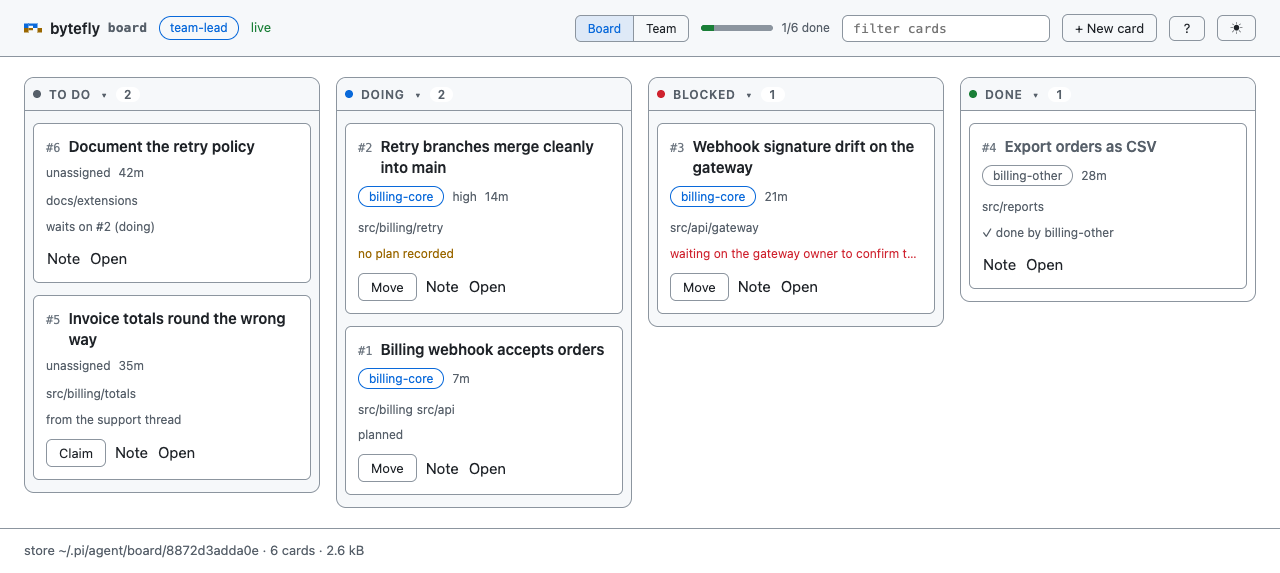
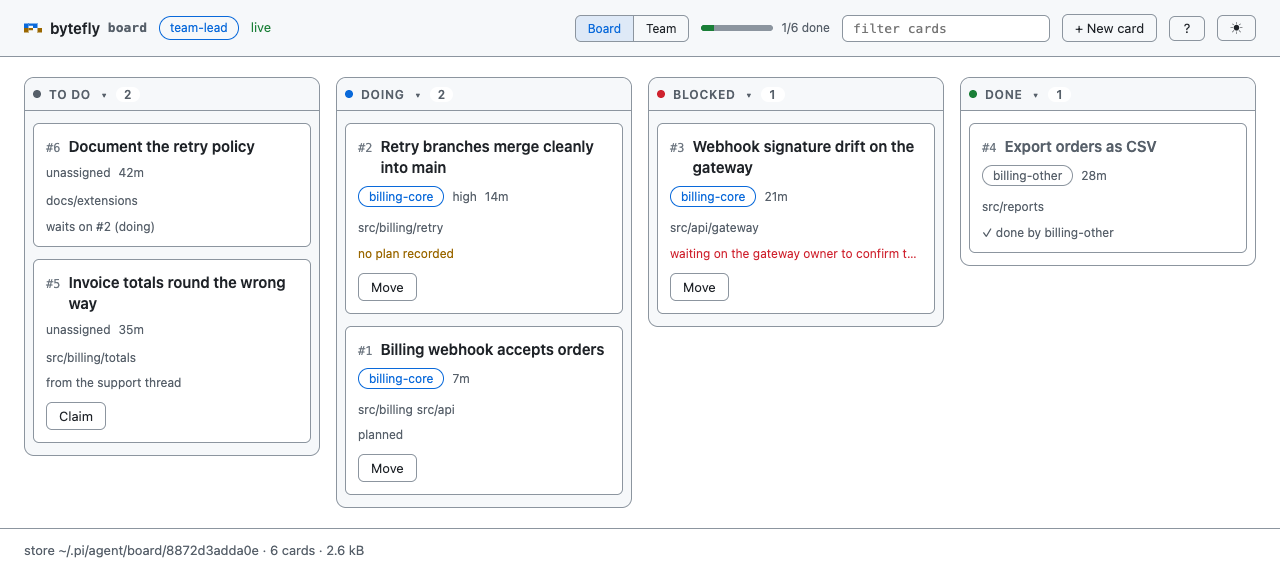
feat(board): the page reads at the size a board reaches
`done` folds itself once past six cards and only while the reader has not
said otherwise; a lane showing nothing — empty or folded — narrows to a rail
of dot, word and count, so the lanes carrying work keep the width; and a card
face offers one verb, because its title already opens the dialog that holds
the note field and the move controls. On a 26-card board that is 26 buttons
instead of 59 and a Done lane that no longer owns four times the height of
the live ones.

diff --git a/extensions/board/view/render.ts b/extensions/board/view/render.ts
@@ -26,6 +26,14 @@ export const BOARD_RENDER_JS = String.raw`(function () {
   var LANE_EMPTY = { todo: "nothing waiting", doing: "nothing in flight", blocked: "nothing blocked", done: "nothing finished yet" };
   /** Path chips a lane card shows before it counts the rest. */
   var PATH_CHIPS = 3;
+  /**
+   * Finished cards a lane may hold before it starts folded.
+   *
+   * A board of 26 cards is 19 of them finished, and an open Done lane is four times the
+   * height of the three that carry work. Three or four is work a reader still checks;
+   * past this it is history, and the count in the head says how much.
+   */
+  var DONE_FOLD_AT = 6;
 
   /** One element with optional class and text. */
   function el(tag, className, text) {
@@ -251,10 +259,11 @@ export const BOARD_RENDER_JS = String.raw`(function () {
       // in it is not worth opening.
       actions.appendChild(actionButton("Move", function () { board.openCard(card.id, "move"); }, "plain"));
     }
-    // A note is a write, and a viewer's dialog has no field for one.
-    if (canWrite()) actions.appendChild(actionButton("Note", function () { board.openCard(card.id, "note"); }));
-    actions.appendChild(actionButton("Open", function () { board.openCard(card.id); }));
-    item.appendChild(actions);
+    // One verb, or none. The title above is the way into a card, and the dialog it opens
+    // already holds the note field and the move controls, so a face that repeated them
+    // put three doors to one room in every card — 59 buttons on a 26-card board. A card
+    // with no verb draws no row: an empty one would still take its gap.
+    if (actions.childNodes.length > 0) item.appendChild(actions);
     return item;
   }
 
@@ -360,6 +369,17 @@ export const BOARD_RENDER_JS = String.raw`(function () {
       var lane = view.lanes[i];
       var section = laneNode(lane);
       if (section.parentNode !== lanes) lanes.appendChild(section);
+      // Finished work starts folded, once: the default is what the page opens with, and
+      // toggleLane writes a boolean from then on, so a reader who unfolds Done keeps it
+      // unfolded through every frame a peer's write causes.
+      if (lane.status === "done" && lane.cards.length >= DONE_FOLD_AT) {
+        board.collapsed = board.collapsed || {};
+        if (board.collapsed[lane.status] === undefined) board.collapsed[lane.status] = true;
+      }
+      // A lane holding nothing is a rail: its dot, its word, and its count, in the width
+      // the fact deserves. The filter never does this — filtering is a view of the cards,
+      // not a statement that the lane has none.
+      section.setAttribute("data-empty", lane.cards.length === 0 ? "true" : "false");
       var shown = lane.cards.filter(function (card) { return matches(card, query); });
       var sig = lane.cards.map(function (card) { return card.id + ":" + card.rev; }).join(",") + "|" + query;
       if (section.getAttribute("data-sig") !== sig) {
@@ -382,6 +402,10 @@ export const BOARD_RENDER_JS = String.raw`(function () {
       var collapsed = board.collapsed && board.collapsed[lane.status] === true;
       var list = section.querySelector(".board-lane__list");
       if (list) list.hidden = collapsed;
+      // A folded lane shows nothing, so it takes the rail's width the way an empty one
+      // does: the count in its head is the whole fact, and the lanes with cards keep the
+      // width that would otherwise be a tray of nothing.
+      section.setAttribute("data-folded", collapsed ? "true" : "false");
       var toggle = section.querySelector(".board-lane__toggle");
       if (toggle) toggle.setAttribute("aria-expanded", String(!collapsed));
     }

diff --git a/extensions/board/view/styles.ts b/extensions/board/view/styles.ts
@@ -56,9 +56,15 @@ ${WEB_COMPONENTS_CSS}
 .board-banner{margin:0 0 var(--space-4)}
 .board-no-cards{max-width:32rem;margin:auto;padding:var(--space-8) var(--space-6)}
 
-/* Lanes: four trays of cards, each with a head that sticks while the pane scrolls. */
-.board-lanes{display:grid;grid-template-columns:repeat(4,minmax(0,1fr));gap:var(--space-4);align-items:start}
-.board-lane{display:flex;flex-direction:column;gap:var(--space-2);min-width:0;padding:0 var(--space-2) var(--space-3);border:1px solid var(--border);border-radius:var(--radius-lg);background:var(--surface)}
+/* Lanes: trays of cards, each with a head that sticks while the pane scrolls. A lane is
+   sized by the work it holds rather than by its share of the row, so one holding nothing
+   narrows to a rail and hands the width to the lanes carrying cards. */
+.board-lanes{display:flex;flex-wrap:nowrap;gap:var(--space-4);align-items:start}
+.board-lane{display:flex;flex:1 1 0;flex-direction:column;gap:var(--space-2);min-width:0;padding:0 var(--space-2) var(--space-3);border:1px solid var(--border);border-radius:var(--radius-lg);background:var(--surface)}
+/* The rail: a dot, a word, and a count — the fact that the lane is showing nothing, not a
+   tray. A lane is a rail when it holds no cards and when it is folded, because both say
+   the same thing: there is nothing here to read. */
+.board-lane[data-empty="true"],.board-lane[data-folded="true"]{flex:0 0 8.5rem}
 .board-lane__head{position:sticky;top:0;z-index:1;display:flex;align-items:center;gap:var(--space-2);margin:0 calc(-1 * var(--space-2)) var(--space-1);padding:var(--space-2) var(--space-2);background:var(--surface);border-bottom:1px solid var(--border);border-radius:var(--radius-lg) var(--radius-lg) 0 0;font:var(--fw-semibold) var(--fs-xs) var(--font-ui);letter-spacing:.06em;text-transform:uppercase;color:var(--muted)}
 .board-lane__toggle{appearance:none;display:flex;align-items:center;gap:var(--space-2);border:0;background:none;padding:0;font:inherit;letter-spacing:inherit;text-transform:inherit;color:inherit;cursor:pointer}
 .board-lane__toggle:hover{color:var(--accent)}
@@ -180,13 +186,17 @@ ${WEB_COMPONENTS_CSS}
 .board-skeleton{height:4.5rem;border:1px dashed var(--border);border-radius:var(--radius-md);background:var(--surface)}
 
 @media (max-width:1180px){
-  .board-lanes{grid-template-columns:repeat(2,minmax(0,1fr))}
+  .board-lanes{flex-wrap:wrap}
+  .board-lane{flex:1 1 calc(50% - var(--space-4))}
   .board-progress{display:none}
   /* Two panels need a wide window; below this the queue comes first, the roster after. */
   .board-team__grid{grid-template-columns:minmax(0,1fr)}
 }
 @media (max-width:860px){
-  .board-lanes{grid-template-columns:minmax(0,1fr)}
+  .board-lanes{flex-direction:column;align-items:stretch}
+  .board-lane{flex:1 1 auto}
+  /* One lane at a time, so a rail buys nothing: the shown lane takes the column. */
+  .board-lane[data-empty="true"],.board-lane[data-folded="true"]{flex:1 1 auto}
   .board-lane[hidden]{display:none}
   .board-picker{display:flex}
   .board-toolbar{gap:var(--space-2)}

diff --git a/extensions/board/view/pages.test.ts b/extensions/board/view/pages.test.ts
@@ -235,6 +235,34 @@ describe("the client bundle", () => {
 		expect(BOARD_CLIENT_JS).not.toContain("dependsOn:");
 	});
 
+	test("keeps one verb on a card face, and lets the title be the way in", () => {
+		// Claim, then Note, then Open: three doors to one room, and 59 buttons on the
+		// 26-card board this page is built for. The title opens the same dialog, which
+		// holds the note field and the move controls.
+		expect(BOARD_CLIENT_JS).toContain('actionButton("Claim"');
+		expect(BOARD_CLIENT_JS).toContain('actionButton("Move"');
+		expect(BOARD_CLIENT_JS).not.toContain('actionButton("Note"');
+		expect(BOARD_CLIENT_JS).not.toContain('actionButton("Open"');
+		// A finished card and a viewer's card have no verb at all, and an empty row would
+		// still take its gap, so the row is drawn only when something is in it.
+		expect(BOARD_CLIENT_JS).toContain("actions.childNodes.length > 0");
+	});
+
+	test("folds finished work once, and gives an empty lane a rail", () => {
+		// Nineteen done cards is history the three live lanes should not have to sit
+		// beside unfolded; the count in the head is the fact. The default is written only
+		// while unset, so a reader's toggle decides from the first click on.
+		expect(BOARD_CLIENT_JS).toContain('lane.status === "done"');
+		expect(BOARD_CLIENT_JS).toContain("DONE_FOLD_AT");
+		expect(BOARD_CLIENT_JS).toContain("board.collapsed[lane.status] === undefined");
+		// The rail is about what the lane is showing, never about the filter: filtering is a
+		// view of the cards, not a statement that the lane holds none. A folded lane shows
+		// nothing either, so it takes the same width and hands the rest to the lanes a
+		// reader is reading.
+		expect(BOARD_CLIENT_JS).toContain('setAttribute("data-empty", lane.cards.length === 0');
+		expect(BOARD_CLIENT_JS).toContain('section.setAttribute("data-folded"');
+	});
+
 	test("says why in one voice, and lets the reason carry it", () => {
 		// Three grammars in one slot read as three different kinds of fact: a status
 		// prefix that repeated the lane, an em-dash clause, and a tick.

diff --git a/assets/cards/board.html b/assets/cards/board.html
@@ -63,12 +63,10 @@
 							<div class="mini__reason">no plan recorded</div>
 							<div class="mini__actions">
 								<span class="act act--loud">Claim</span>
-								<span class="act">Note</span>
-								<span class="act">Open</span>
 							</div>
 						</div>
 						<span class="note">one reason line, in one voice</span>
-						<span class="note">nobody holds it, so Claim is the invitation</span>
+						<span class="note">one action: Claim, and the title opens the rest</span>
 					</div>
 					<div class="panel__gloss">功能，不是步骤</div>
 				</section>

diff --git a/docs/extensions/board.md b/docs/extensions/board.md
@@ -11,7 +11,7 @@ The steps of the work are deliberately *not* on the board. They live in the
 owner's plan and in `todo`; the board answers who is doing what, and what needs a
 decision.
 
-<img src="../../assets/screens/board.png" alt="The board page: a toolbar with the seat the page writes as, a live badge, Board and Team tabs, done-of-total progress, a filter and a New card button; four lane trays, each with a dot, a count and a fold control; and cards carrying an owner chip, path hints, a reason line and their actions" width="100%">
+<img src="../../assets/screens/board.png" alt="The board page: a toolbar with the seat the page writes as, a live badge, Board and Team tabs, done-of-total progress, a filter and a New card button; four lane trays, each with a dot, a count and a fold control; and cards carrying an owner chip, path hints, a reason line and the one action a face offers" width="100%">
 
 *`/board`: the four lanes, with a new card one keystroke from its dialog and the round one tab away.*
 
@@ -37,6 +37,8 @@ decision.
 | Delete a card | `board` action `drop` | The card and its notes are gone; a `todo` or `done` card is anyone's to drop, one in flight only its holder's, and one that a card waits on cannot leave at all |
 | One page per repository | `/board` | Serves a loopback page as `team-lead` with a **Board** and a **Team** tab, following the store live; a page already served is opened instead |
 | Watch somebody else's page | `/board` on a session that is not serving | The same page, **read-only**: no **+ New card**, no `Claim`, `Move`, `Edit`, `Drop` or note field, because the note a viewer reads carries a credential that may only read. The viewer joins the team under its own label, so a handoff can still reach it |
+| Read a board at its real size | the `Done` fold, an empty lane's rail | `Done` starts folded past six cards, its count in the head, and a reader's toggle decides from then on. A lane holding no cards narrows to its head, word, and count, so the lanes carrying work keep the width |
+| Open a card | `Claim`, `Move`, or the card's title | The face offers `Claim`, or `Move` for work in flight, and nothing else: the title opens the dialog, which holds the note field, the move controls, and the rest. A 26-card board draws 26 of those buttons, not 59 |
 | See the lead's round at a glance | `/board team`, or `/team` with no browser | A queue of cards that need a decision, each with the reason and its way out, then who is on the team and what they hold |
 | Join the team | `/board`, or any card you work | Opening the page joins this session to the team — as `team-lead` when it serves the page, under its own name when it watches one — and the first card write joins it too, so nothing has to be armed by hand. `/board status` says which team a `/board` in this session put you on |
 | See who is around | `/board team` | The Teammates list: every session this repository's bus has recorded, plus every owner a card names, each stating `live`, `quiet`, `no record`, or `—` when no bus is loaded |
@@ -137,8 +139,8 @@ pinned and makes the main pane the only scroll box; the page adds no second one.
 |---|---|
 | Toolbar | the mark, the seat the page writes as, as a chip, a live badge (`connecting…`, `live` or `live · 3m`, `reconnecting…`), then one group: the Board\|Team switch, done-of-total progress, a filter, **+ New card**, the keys button, and the theme toggle |
 | New card dialog | the modal the toolbar's button (or `n`) opens: **Title** on its own line, the loudest field on the page, with a `n/120` count once you type; **Paths** under it, space-separated hints; **Priority** as a three-word list; the hint line; and one closer, `Cancel`, beside **Add card**. The title is focused on open, the dialog stays open after an add so a lead can publish several cards, and a draft survives `Esc`, the backdrop, and `Cancel` is the only thing that discards it. The same dialog is the card dialog's **Edit**: prefilled, headed `Edit card #4`, with **Save** in place of Add — and leaving that mode throws its text away, because that text was the card's, not a draft |
-| Lanes | trays, not a bare list: four columns above 1180px, two at 1180px or narrower, one lane plus the lane switch at 860px or narrower — where it opens on the first lane that holds a card. Each head sticks while the pane scrolls, carries its count as a pill, and folds its cards away |
-| Cards | the id and a two-line title (the page's loudest text), an owner chip and an age, a muted priority chip when it is not `normal`, path chips, one reason line in one voice — what a card waits for, a blocked card's last note (or `blocked, with nothing recorded`), `no plan recorded`, `planned`, `✓ done by <owner>`, and the last note of a card that is none of those — clamped, with the whole sentence as its tooltip, and at most three actions — `Claim` or `Move` bordered, then `Note` and `Open`. A card that waits offers no `Claim`, because the claim would be refused: the reason line is what it says instead, and `Move` is drawn on any card still in flight, as the way into its dialog rather than a permission. A viewer's page draws `Open` alone, and no **+ New card**: the document says `data-writes="0"` and every affordance reads it. A hovered card lifts a pixel; a finished one recedes, title and owner chip muted |
+| Lanes | trays, not a bare list: one column per lane, sized by the work it holds, so a lane showing nothing — because it holds no cards, or because it is folded — narrows to a rail of dot, word, and count, and the lanes carrying cards keep the width. Three or four across above 1180px, two at 1180px or narrower, one lane plus the lane switch at 860px or narrower — where it opens on the first lane that holds a card. Each head sticks while the pane scrolls, carries its count as a pill, and folds its cards away: `Done` starts folded past six cards, since finished work is history, and a reader's toggle decides from then on |
+| Cards | the id and a two-line title (the page's loudest text), an owner chip and an age, a muted priority chip when it is not `normal`, path chips, one reason line in one voice — what a card waits for, a blocked card's last note (or `blocked, with nothing recorded`), `no plan recorded`, `planned`, `✓ done by <owner>`, and the last note of a card that is none of those — clamped, with the whole sentence as its tooltip, and at most one action — `Claim`, or `Move` for work in flight, bordered. A card that waits offers no `Claim`, because the claim would be refused: the reason line is what it says instead, and `Move` is drawn on any card still in flight, as the way into its dialog rather than a permission. A finished card and a viewer's page draw no action at all, because the title is the way into the dialog that holds the note field and the move controls; a viewer's page adds no **+ New card**: the document says `data-writes="0"` and every affordance reads it. A hovered card lifts a pixel; a finished one recedes, title and owner chip muted |
 | Team | two panels and a strip. **Needs a decision** is one row per card — a card that is both idle and unplanned arrives once, keeping its strongest reason — laid out as two lines: the id, title, owner chip and `Reclaim` (or `Claim` when nobody holds it) on the first, the reason on the second with the whole sentence as its tooltip, and its kind as a left edge (`--danger` blocked, `--warn` idle, `--dim` unplanned or waiting, the same `--dim` dashed for nobody's). An unassigned card that waits on unfinished work is a row of its own kind, ranked just under a blocker, and offers no action: the claim the rules would refuse is not on the row at all. Above 1180px the queue stops at one screen's height and scrolls inside its panel, so the roster and the Done strip stay on the same page as its top. **Teammates** is one row per person — a state dot, the label, a `you` chip, a `not listening` chip on a live peer whose inbox watch is off, a mail badge, then `live · 3 held · 1 done · oldest 21m` (a quiet session reads `quiet for 2h`, because a word without an age is no reason to reclaim) — sorted you, live, quiet, no record, and an owner whose label nothing answers to keeps its row. Done is one quiet strip whose ids open their cards. Both panels honour the toolbar's filter, and their headings read `shown/total` the way a lane head does. Below 1180px the queue comes first and the roster follows |
 | Card dialog | the lane as a dot and a word beside the title, a meta line, the owner and its priority, the paths, what it waits for, the plan as monospace text, the notes as a timeline (who and when above the sentence, a rule between them), a note field, and `Move to` every lane but the card's own — a waiting card may be parked in `blocked`, and the rules turn down the two that put it back in flight — then `Assign to` for an unowned card, `Release`, `Edit`, `Drop`, `Close` |
 
@@ -153,7 +155,7 @@ a card with `data-status`, so a theme change repaints it without a rule of its o
 
 The board as a posting card — the same rules, drawn to be read at half width:
 
-<img src="../../assets/cards/board.png" alt="One board, every session: the page's seat and live badge; four lane trays, each with a dot, a count pill and a fold; one card carrying an id, a title, its age, a priority chip, a path chip, one reason line and its three actions; and the lead's round with two owner lines and the counts unassigned, unplanned, blocked, idle and done" width="100%">
+<img src="../../assets/cards/board.png" alt="One board, every session: the page's seat and live badge; four lane trays, each with a dot, a count pill and a fold; one card carrying an id, a title, its age, a priority chip, a path chip, one reason line and its one action; and the lead's round with two owner lines and the counts unassigned, unplanned, blocked, idle and done" width="100%">
 
 *`board`: the lanes, one card's atoms, and the lead's round — three readings of one board, drawn by `screenshot:cards board`.*
 

diff --git a/CHANGELOG.md b/CHANGELOG.md
@@ -262,6 +262,12 @@ to [Semantic Versioning](https://semver.org/spec/v2.0.0.html).
 
 ### Changed
 
+- `board`: the page reads at the size a board actually reaches. `done` starts folded past
+  six cards, with its count in the lane head, and a reader's toggle decides from then on;
+  a lane holding no cards narrows to its head, its word, and its count, so the three lanes
+  carrying work keep the width; and a card face offers one verb — `Claim`, or `Move` for
+  work in flight — because its title already opens the dialog that holds the note field
+  and the move controls. On a 26-card board that is 26 buttons instead of 59.
 - `team`: the tool's description says what is true of each action — `reclaim` writes the
   card alone and sends nothing, so it needs no bus — instead of tying all three to the
   team, which sent a model looking for a transport `reclaim` never touches.
